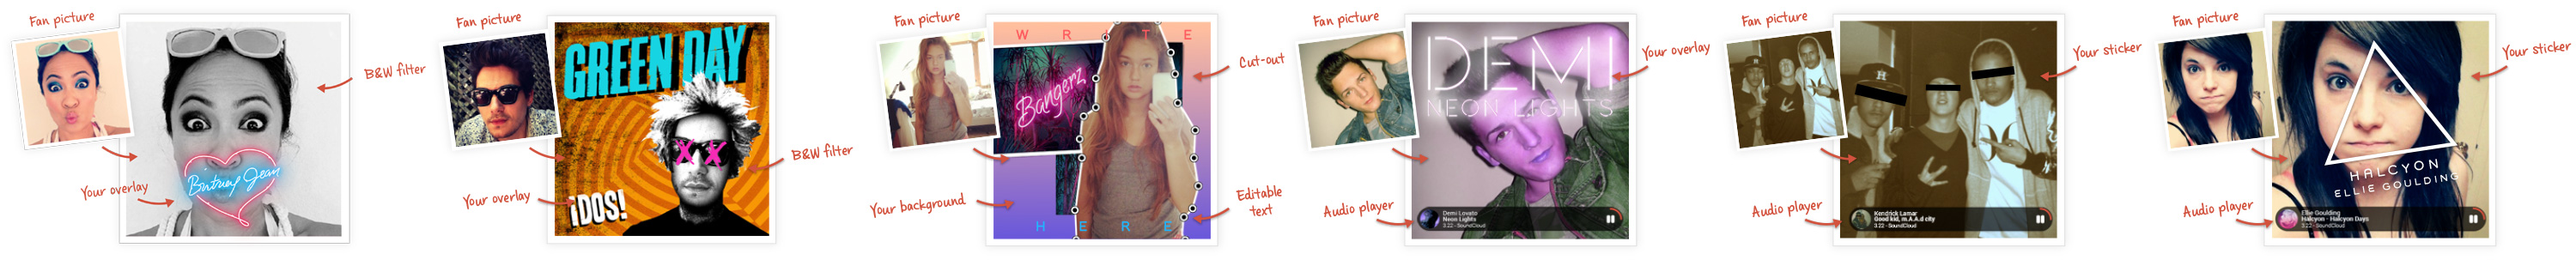
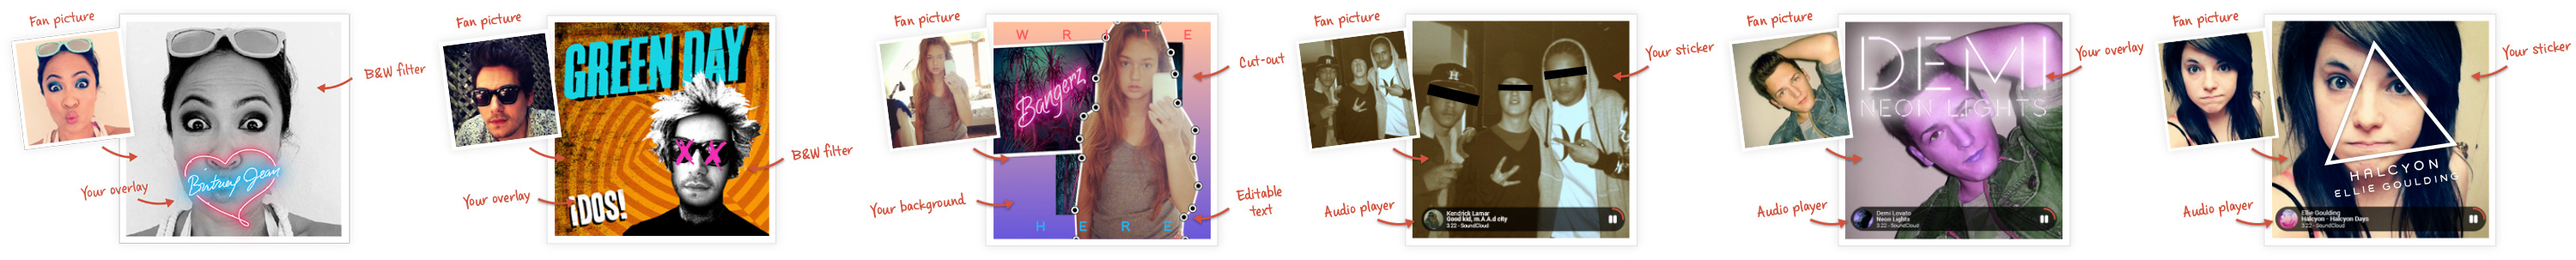
animations when changing artist

Changed region(s): [[0.496, 0.0594, 0.837, 0.9208]]

diff --git a/stylesheets/all.css b/stylesheets/all.css
@@ -842,13 +842,18 @@ input[type="submit"],
   width: 350px;
   height: 100%;
   min-width: 300px;
-  margin-left: -46px;
+  margin-left: -50px;
   background-image: url("../images/artists.jpg");
   background-repeat: no-repeat;
-  /*@include transition(background-position 0.2s ease-in 0.1s);*/
+  background-size: 2700px auto;
+  -webkit-transition: background-position 0.2s ease-in;
+  -webkit-transition-delay: 0.1s;
+  -moz-transition: background-position 0.2s ease-in 0.1s;
+  -o-transition: background-position 0.2s ease-in 0.1s;
+  transition: background-position 0.2s ease-in 0.1s;
 }
 
-/* line 58, ../sass/objects/_artists.scss */
+/* line 59, ../sass/objects/_artists.scss */
 .artist__cta {
   height: 100%;
   max-width: 350px;
@@ -856,93 +861,97 @@ input[type="submit"],
   margin-top: 75px;
 }
 
-/* line 66, ../sass/objects/_artists.scss */
+/* line 67, ../sass/objects/_artists.scss */
 .artist__campaign {
   width: 450px;
   height: 310px;
   background-image: url("../images/artists-campaign.jpg");
   background-size: 2700px auto;
   background-repeat: no-repeat;
-  /*@include transition(background-position 0.2s ease 0.1s);*/
+  -webkit-transition: background-position 0.25s ease;
+  -webkit-transition-delay: 0.1s;
+  -moz-transition: background-position 0.25s ease 0.1s;
+  -o-transition: background-position 0.25s ease 0.1s;
+  transition: background-position 0.25s ease 0.1s;
 }
 
 /**
  * Artists background images
  */
-/* line 82, ../sass/objects/_artists.scss */
+/* line 83, ../sass/objects/_artists.scss */
 .artist-1 .artist__picture {
-  background-position: -2042px 100%;
+  background-position: -50px 100%;
 }
-/* line 85, ../sass/objects/_artists.scss */
+/* line 86, ../sass/objects/_artists.scss */
 .artist-1 .artist__campaign {
   background-position: 0 100%;
 }
-/* line 88, ../sass/objects/_artists.scss */
+/* line 89, ../sass/objects/_artists.scss */
 .artist-1 .artist__mosaic {
   background-image: url("../images/mosaic-artist-1.jpg");
 }
 
-/* line 94, ../sass/objects/_artists.scss */
+/* line 95, ../sass/objects/_artists.scss */
 .artist-2 .artist__picture {
-  background-position: -426px 100%;
+  background-position: -500px 100%;
 }
-/* line 97, ../sass/objects/_artists.scss */
+/* line 98, ../sass/objects/_artists.scss */
 .artist-2 .artist__campaign {
   background-position: -450px 100%;
 }
-/* line 100, ../sass/objects/_artists.scss */
+/* line 101, ../sass/objects/_artists.scss */
 .artist-2 .artist__mosaic {
   background-image: url("../images/mosaic-artist-2.jpg");
 }
 
-/* line 106, ../sass/objects/_artists.scss */
+/* line 107, ../sass/objects/_artists.scss */
 .artist-3 .artist__picture {
-  background-position: -845px 100%;
+  background-position: -950px 100%;
 }
-/* line 109, ../sass/objects/_artists.scss */
+/* line 110, ../sass/objects/_artists.scss */
 .artist-3 .artist__campaign {
   background-position: -900px 100%;
 }
-/* line 112, ../sass/objects/_artists.scss */
+/* line 113, ../sass/objects/_artists.scss */
 .artist-3 .artist__mosaic {
   background-image: url("../images/mosaic-artist-3.jpg");
 }
 
-/* line 118, ../sass/objects/_artists.scss */
+/* line 119, ../sass/objects/_artists.scss */
 .artist-4 .artist__picture {
-  background-position: -1235px 100%;
+  background-position: -1400px 100%;
 }
-/* line 121, ../sass/objects/_artists.scss */
+/* line 122, ../sass/objects/_artists.scss */
 .artist-4 .artist__campaign {
-  background-position: -1800px 100%;
+  background-position: -1350px 100%;
 }
-/* line 124, ../sass/objects/_artists.scss */
+/* line 125, ../sass/objects/_artists.scss */
 .artist-4 .artist__mosaic {
   background-image: url("../images/mosaic-artist-4.jpg");
 }
 
-/* line 130, ../sass/objects/_artists.scss */
+/* line 131, ../sass/objects/_artists.scss */
 .artist-5 .artist__picture {
-  background-position: -1640px 100%;
+  background-position: -1850px 100%;
 }
-/* line 133, ../sass/objects/_artists.scss */
+/* line 134, ../sass/objects/_artists.scss */
 .artist-5 .artist__campaign {
-  background-position: -1350px 100%;
+  background-position: -1800px 100%;
 }
-/* line 136, ../sass/objects/_artists.scss */
+/* line 137, ../sass/objects/_artists.scss */
 .artist-5 .artist__mosaic {
   background-image: url("../images/mosaic-artist-5.jpg");
 }
 
-/* line 142, ../sass/objects/_artists.scss */
+/* line 143, ../sass/objects/_artists.scss */
 .artist-6 .artist__picture {
-  background-position: -30px 100%;
+  background-position: -2300px 100%;
 }
-/* line 145, ../sass/objects/_artists.scss */
+/* line 146, ../sass/objects/_artists.scss */
 .artist-6 .artist__campaign {
   background-position: -2250px 100%;
 }
-/* line 148, ../sass/objects/_artists.scss */
+/* line 149, ../sass/objects/_artists.scss */
 .artist-6 .artist__mosaic {
   background-image: url("../images/mosaic-artist-6.jpg");
 }
@@ -950,7 +959,7 @@ input[type="submit"],
 /**
  * Artists mosaic
  */
-/* line 156, ../sass/objects/_artists.scss */
+/* line 157, ../sass/objects/_artists.scss */
 .artist__mosaic {
   height: 256px;
   border-top: 5px solid #d2523e;

diff --git a/sass/objects/_artists.scss b/sass/objects/_artists.scss
@@ -47,12 +47,13 @@
   height: 100%;
   min-width: 300px;
 
-  margin-left: -46px;
+  margin-left: -50px;
 
   background-image: url('../images/artists.jpg');
   background-repeat: no-repeat;
+  background-size: 2700px auto;
 
-  /*@include transition(background-position 0.2s ease-in 0.1s);*/
+  @include transition(background-position 0.2s ease-in 0.1s);
 }
 
 .artist__cta {
@@ -71,7 +72,7 @@
   background-size: 2700px auto;
   background-repeat: no-repeat;
 
-  /*@include transition(background-position 0.2s ease 0.1s);*/
+  @include transition(background-position 0.25s ease 0.1s);
 }
 
 /**
@@ -80,7 +81,7 @@
 
 .artist-1 {
   .artist__picture {
-    background-position: -2042px 100%;
+    background-position: -50px 100%;
   }
   .artist__campaign {
     background-position: 0 100%;
@@ -92,7 +93,7 @@
 
 .artist-2 {
   .artist__picture {
-    background-position: -426px 100%;
+    background-position: -500px 100%;
   }
   .artist__campaign {
     background-position: -450px 100%;
@@ -104,7 +105,7 @@
 
 .artist-3 {
   .artist__picture {
-    background-position: -845px 100%;
+    background-position: -950px 100%;
   }
   .artist__campaign {
     background-position: -900px 100%;
@@ -116,10 +117,10 @@
 
 .artist-4 {
   .artist__picture {
-    background-position: -1235px 100%;
+    background-position: -1400px 100%;
   }
   .artist__campaign {
-    background-position: -1800px 100%;
+    background-position: -1350px 100%;
   }
   .artist__mosaic {
     background-image: url('../images/mosaic-artist-4.jpg');
@@ -128,10 +129,10 @@
 
 .artist-5 {
   .artist__picture {
-    background-position: -1640px 100%;
+    background-position: -1850px 100%;
   }
   .artist__campaign {
-    background-position: -1350px 100%;
+    background-position: -1800px 100%;
   }
   .artist__mosaic {
     background-image: url('../images/mosaic-artist-5.jpg');
@@ -140,7 +141,7 @@
 
 .artist-6 {
   .artist__picture {
-    background-position: -30px 100%;
+    background-position: -2300px 100%;
   }
   .artist__campaign {
     background-position: -2250px 100%;

diff --git a/javascripts/ui.js b/javascripts/ui.js
@@ -50,8 +50,10 @@
 
     // Set the cta
     var artistInfo = artistsInfo[currentKey];
-    jQuery('.artist__cta > h2').html(artistInfo.cta);
-    jQuery('.artist__link').attr('href', artistInfo.link).text(artistInfo.fullName);
+    setTimeout(function() {
+      jQuery('.artist__cta > h2').html(artistInfo.cta);
+      jQuery('.artist__link').attr('href', artistInfo.link).text(artistInfo.fullName);
+    }, 200);
   });
 
 })(jQuery);
